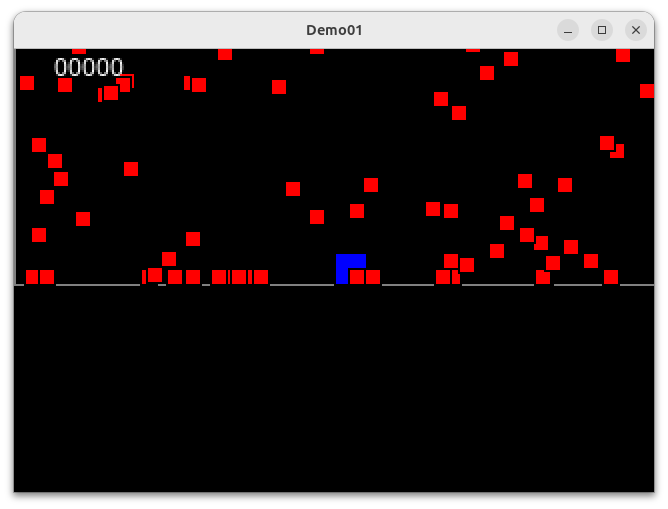
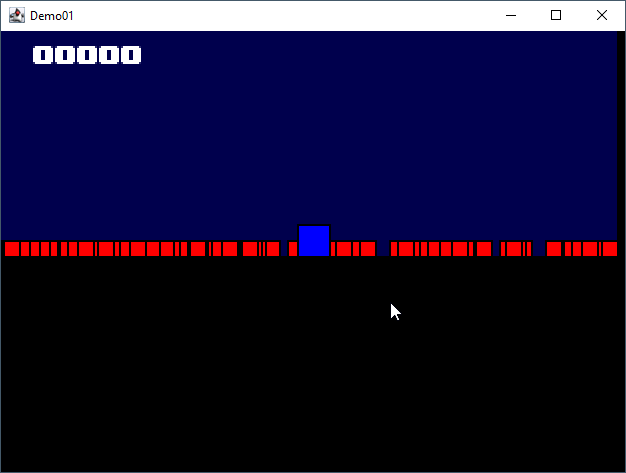
feat(debug): add debug info on screen

diff --git a/src/main/java/com/snapgames/apps/Demo01Frame.java b/src/main/java/com/snapgames/apps/Demo01Frame.java
@@ -77,6 +77,8 @@ public class Demo01Frame extends JPanel implements KeyListener {
 
         private Map<String, Object> attributes = new HashMap<>();
 
+        public Shape shape = new Rectangle2D.Double();
+
         public Entity(String name) {
             this.name = name;
         }
@@ -194,8 +196,23 @@ public class Demo01Frame extends JPanel implements KeyListener {
      * @since 1.0.0
      */
     public static class World {
+        public String name = "default_world";
         public Rectangle2D playArea = new Rectangle2D.Double(0, 0, 640, 480);
         public double gravity = 0.981;
+        public Material material = Material.DEFAULT;
+        public Color playAreaColor = new Color(0.0f, 0.0f, 0.3f);
+
+
+        public World(String name) {
+            this.name = name;
+        }
+
+        public World(String name, double gravity, Rectangle2D.Double playArea, Material playAreaLimitMaterial) {
+            this.name = name;
+            this.gravity = gravity;
+            this.playArea = playArea;
+            this.material = playAreaLimitMaterial;
+        }
     }
 
     /**
@@ -264,6 +281,47 @@ public class Demo01Frame extends JPanel implements KeyListener {
 
     }
 
+    /**
+     * The {@link Camera} object will be used to track a {@link Camera#target}
+     * The targeted {@link Entity} will be keep on the display center according the {@link Camera#tweenFactor}.
+     *
+     * @author Frédéric Delorme
+     * @since 1.0.0
+     */
+    public static class Camera extends Entity {
+        private Entity target;
+        private double tweenFactor;
+        private Rectangle2D viewport = new Rectangle2D.Double();
+
+        public Camera(String name) {
+            super(name);
+        }
+
+        public Camera setTarget(Entity target) {
+            this.target = target;
+            return this;
+        }
+
+        public Camera setTweenFactor(double tf) {
+            this.tweenFactor = tf;
+            return this;
+        }
+
+        public void update(double dt) {
+            if (Optional.ofNullable(target).isPresent()) {
+                this.x += Math
+                    .ceil((target.x + (target.width * 0.5) - ((viewport.getWidth()) * 0.5) - this.x)
+                        * tweenFactor * Math.min(dt, 10));
+                this.y += Math
+                    .ceil((target.y + (target.height * 0.5) - ((viewport.getHeight()) * 0.5) - this.y)
+                        * tweenFactor * Math.min(dt, 10));
+
+                this.viewport.setRect(this.x, this.y, this.getWidth(),
+                    this.getHeight());
+            }
+        }
+    }
+
     private ResourceBundle messages = ResourceBundle.getBundle("i18n/messages");
     private Properties config = new Properties();
     private static boolean exit = false;
@@ -277,14 +335,15 @@ public class Demo01Frame extends JPanel implements KeyListener {
 
     private boolean[] keys = new boolean[1024];
 
-    private World world = new World();
+    private World world = new World("earth", 0.981, new Rectangle2D.Double(), Material.DEFAULT);
 
     private Map<String, Entity> entities = new ConcurrentHashMap<>();
+    private Camera activeCamera;
 
     private Color backGroundColor = Color.BLACK;
 
     /**
-     * Create the Demo01Frame class and identify current java context.
+     * Create the Demo01Frame class and identify the current java context.
      */
     public Demo01Frame() {
         info("Initialization application %s (%s) %n- running on JDK %s %n- at %s %n- with classpath = %s%n",
@@ -339,6 +398,7 @@ public class Demo01Frame extends JPanel implements KeyListener {
         FPS = Integer.parseInt(config.getProperty("app.render.fps", "60"));
         // is exit because of test mode requested ?
         exit = Boolean.parseBoolean(config.getProperty("app.exit", "false"));
+        debug = Integer.parseInt(config.getProperty("app.debug.level", "0"));
         // create the window
         window = new JFrame(config.getProperty("app.window.title", "Demo01"));
         window.setPreferredSize(new Dimension(
@@ -396,13 +456,15 @@ public class Demo01Frame extends JPanel implements KeyListener {
             .setBorderColor(Color.WHITE)
             .setStickToCamera(true)
         );
-        add(new Entity("player")
+
+        Entity player = new Entity("player")
             .setPosition(world.playArea.getWidth() * 0.5,
                 world.playArea.getHeight() * 0.5)
             .setSize(16, 16)
             .setPriority(200)
             .setMaterial(new Material("Player_MAT", 1.0, 0.998, 0.998))
-            .setMass(80.0));
+            .setMass(80.0);
+        add(player);
 
         for (int i = 0; i < 100; i++) {
             add(new Entity("enemy_" + i)
@@ -415,8 +477,26 @@ public class Demo01Frame extends JPanel implements KeyListener {
                 .setMaterial(new Material("Enemy_MAT", 1.0, 1.0, 1.0))
                 .setMass(2.0 + (5.0 * Math.random())));
         }
+        setActiveCamera((Camera)
+            new Camera("cam01")
+                .setTarget(player)
+                .setTweenFactor(0.002)
+                .setSize(320, 240));
     }
 
+    /**
+     * Define the current active {@link Camera}.
+     *
+     * @param cam the new {@link Camera} to activate.
+     */
+    private void setActiveCamera(Camera cam) {
+        this.activeCamera = cam;
+
+    }
+
+    /**
+     * Reset current Scene.
+     */
     public void resetScene() {
         entities.clear();
         createScene();
@@ -431,28 +511,56 @@ public class Demo01Frame extends JPanel implements KeyListener {
     public void loop() {
         long startTime = System.currentTimeMillis();
         long previousTime = startTime;
-        long delay = 0;
+        long delay = 1;
+
+        long updateFrames = 0;
+        long updateTime = 0;
+        long currentUPS = 0;
+
+        long renderTime = 0;
+        long renderFrames = 0;
+        long currentFPS = 0;
+
+        Map<String, Object> stats = new ConcurrentHashMap<>();
         while (!exit) {
             startTime = System.currentTimeMillis();
             input();
             delay = startTime - previousTime;
+            updateTime += delay;
+            if (updateTime > 1000) {
+                currentUPS = updateFrames;
+                updateFrames = 0;
+                updateTime = 0;
+            } else {
+                updateFrames++;
+            }
             update(delay);
-            render();
+            renderTime += delay;
+            if (renderTime > 1000) {
+                currentFPS = renderFrames;
+                renderFrames = 0;
+                renderTime = 0;
+            } else {
+                renderFrames++;
+            }
+            render(stats);
             try {
                 Thread.sleep(delay > 1000 / FPS ? 1 : 1000 / FPS - delay);
             } catch (InterruptedException e) {
                 throw new RuntimeException(e);
             }
             previousTime = startTime;
+            stats.put("fps", currentFPS);
+            stats.put("ups", currentUPS);
+            stats.put("frame", delay);
         }
     }
 
     public void input() {
         Entity player = entities.get("player");
         double speed = 0.025;
-        if (isKeyPressed(KeyEvent.VK_UP) && !player.isAttribute("jump")) {
-            player.forces.add(new Point2D.Double(0, -(speed * 10.0)));
-            player.setAttribute("jump", true);
+        if (isKeyPressed(KeyEvent.VK_UP)) {
+            player.forces.add(new Point2D.Double(0, -(speed * 2.0)));
         }
         if (isKeyPressed(KeyEvent.VK_DOWN)) {
             player.forces.add(new Point2D.Double(0, speed));
@@ -466,12 +574,17 @@ public class Demo01Frame extends JPanel implements KeyListener {
     }
 
     public void update(double delay) {
+        // update all entities not stick to activeCamera.
         entities.values().stream()
-            .filter(e -> e.isActive() && !e.isStickToCamera())
+            .filter(e -> !e.isStickToCamera())
             .forEach(e -> {
                 applyPhysics(delay, e);
                 controlPlayAreaBoundaries(e);
             });
+        // update camera position
+        if (Optional.ofNullable(activeCamera).isPresent()) {
+            activeCamera.update(delay);
+        }
     }
 
     /**
@@ -529,23 +642,22 @@ public class Demo01Frame extends JPanel implements KeyListener {
         if (!world.playArea.contains(e)) {
             if (e.x < 0.0) {
                 e.x = 0.0;
-                e.dx = -e.dx * e.material.elasticity * e.material.roughness;
+                e.dx = -e.dx * e.material.elasticity * world.material.roughness * world.material.elasticity;
                 e.ax = 0.0;
             }
             if (e.y < 0.0) {
                 e.y = 0.0;
-                e.dy = -e.dy * e.material.elasticity * e.material.roughness;
-                e.removeAttribute("jump");
+                e.dy = -e.dy * e.material.elasticity * world.material.roughness * world.material.elasticity;
                 e.ay = 0.0;
             }
             if (e.x > world.playArea.getWidth() - e.width) {
                 e.x = world.playArea.getWidth() - e.width;
-                e.dx = -e.dx * e.material.elasticity * e.material.roughness;
+                e.dx = -e.dx * e.material.elasticity * world.material.roughness * world.material.elasticity;
                 e.ax = 0.0;
             }
             if (e.y > world.playArea.getHeight() - e.height) {
                 e.y = world.playArea.getHeight() - e.height;
-                e.dy = -e.dy * e.material.elasticity * e.material.roughness;
+                e.dy = -e.dy * e.material.elasticity * world.material.roughness * world.material.elasticity;
                 e.ay = 0.0;
             }
         }
@@ -566,7 +678,7 @@ public class Demo01Frame extends JPanel implements KeyListener {
      *     <li>Draw the buffer to the window and display it.</li>
      * </ul>
      */
-    public void render() {
+    public void render(Map<String, Object> stats) {
         Graphics2D g = buffer.createGraphics();
         g.setRenderingHints(Map.of(RenderingHints.KEY_ANTIALIASING, RenderingHints.VALUE_ANTIALIAS_ON,
             RenderingHints.KEY_TEXT_ANTIALIASING, RenderingHints.VALUE_TEXT_ANTIALIAS_ON));
@@ -574,31 +686,49 @@ public class Demo01Frame extends JPanel implements KeyListener {
         g.clearRect(0, 0, buffer.getWidth(), buffer.getHeight());
         // move Camera
         Entity player = entities.get("player");
-        if (Optional.ofNullable(player).isPresent()) {
-            g.translate((buffer.getWidth() * 0.5) - player.getX(), (buffer.getHeight() * 0.5) - player.getY());
+        if (Optional.ofNullable(activeCamera).isPresent()) {
+            g.translate(-activeCamera.x, -activeCamera.y);
         }
         // draw play area limits
-        g.setColor(Color.GRAY);
-        g.drawRect(0, 0, (int) world.playArea.getWidth(), (int) world.playArea.getHeight());
+        if (debug > 0) {
+            g.setColor(Color.GRAY);
+            g.drawRect(0, 0, (int) world.playArea.getWidth(), (int) world.playArea.getHeight());
+        }
+        g.setColor(world.playAreaColor);
+        g.fillRect(0, 0, (int) world.playArea.getWidth(), (int) world.playArea.getHeight());
+
         //draw everything
         entities.values().stream().filter(e -> e.isActive() && !e.isStickToCamera())
             .sorted(Comparator.comparingInt(a -> a.priority))
             .forEach(e -> {
                 drawEntity(e, g);
             });
-        if (Optional.ofNullable(player).isPresent()) {
-            g.translate((-buffer.getWidth() * 0.5) + player.getX(), (-buffer.getHeight() * 0.5) + player.getY());
+        if (Optional.ofNullable(activeCamera).isPresent()) {
+            g.translate(activeCamera.x, activeCamera.y);
         }
-        // draw all objects stick to camera.
+        // draw all objects stick to the Camera.
         entities.values().stream().filter(e -> e.isActive() && e.isStickToCamera())
             .sorted(Comparator.comparingInt(a -> a.priority))
             .forEach(e -> {
                 drawEntity(e, g);
             });
+        g.dispose();
 
         Graphics g2s = window.getBufferStrategy().getDrawGraphics();
         g2s.drawImage(buffer, 0, 0, window.getWidth(), window.getHeight(),
             0, 0, buffer.getWidth(), buffer.getHeight(), null);
+        if (debug > 0) {
+            g2s.setColor(Color.ORANGE);
+            g2s.drawString(String.format("[ fps:%d / ups:%d / e:%d / nbObj:%d / active:%d]",
+                    stats.get("fps"),
+                    stats.get("ups"),
+                    stats.get("delay"),
+                    (long) entities.values().size(),
+                    (long) entities.values().stream().filter(Entity::isActive).count()),
+                10, window.getHeight() - 10
+            );
+        }
+        g2s.dispose();
         window.getBufferStrategy().show();
     }
 

diff --git a/README.md b/README.md
@@ -37,6 +37,7 @@ Now, the following keys act as :
 |------------------------------|-----------------------------------------------|
 | <kbd>ESCAPE</kbd>            | Exit the <code>Demo01Frame</code> application | 
 | <kbd>CTRL</kbd>+<kbd>Z</kbd> | Reset the current Scene                       | 
+| <kbd>CTRL</kbd>+<kbd>G</kbd> | Reverse the current Scene Gravity             | 
 | <kbd>UP</kbd>                | Move player up                                | 
 | <kbd>DOWN</kbd>              | Move player down                              | 
 | <kbd>LEFT</kbd>              | Move player left                              | 
